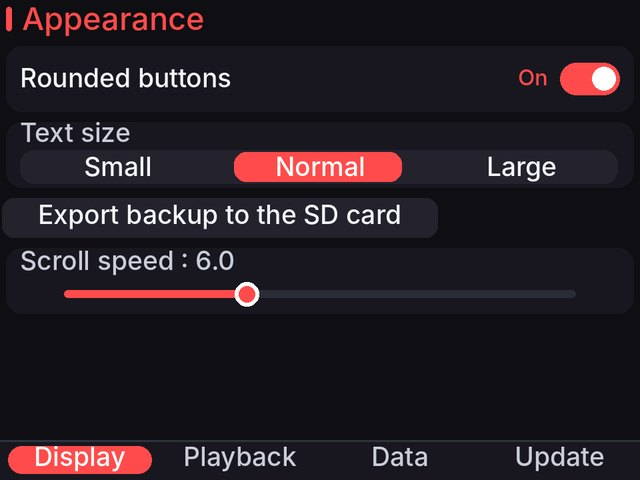
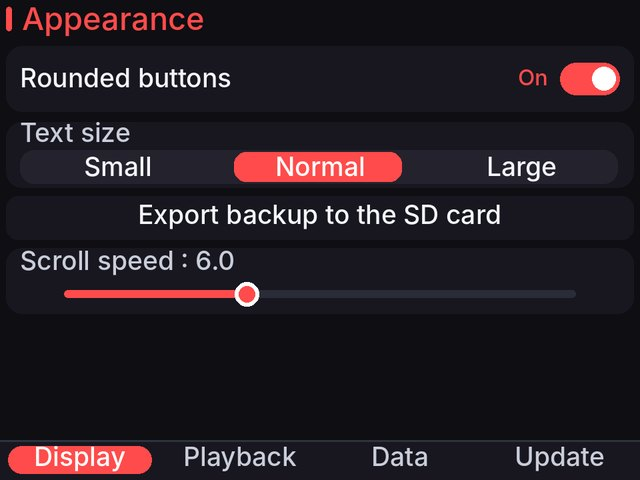
Web: refreshed screenshots and two new ones (quality selector, Spanish settings)

Changed region(s): [[0.0625, 0.4062, 0.7812, 0.4688]]

diff --git a/web/js/i18n.js b/web/js/i18n.js
@@ -14,7 +14,7 @@
       data_note: "Your data lives in <code>sdmc:/3ds/IkersTube/</code>.",
       qr_caption: "Always points to the latest stable .cia",
       nav_ui: "Look", ui_title: "The new look", ui_intro: "A new design for the whole app: rounded cards, switches, a new bottom bar and light and dark themes. These are renders of the real interface code with sample data, not photos of a console.",
-      ui_a1: "Home screen, dark theme", ui_a2: "Home screen, light theme", ui_a3: "Settings", ui_a4: "Video page", ui_a5: "Video menu", ui_a6: "Settings, light theme",
+      ui_a1: "Home screen, dark theme", ui_a2: "Home screen, light theme", ui_a3: "Settings", ui_a4: "Video page", ui_a5: "Video menu", ui_a6: "Settings, light theme", ui_a7: "Playback tab with the quality selector", ui_a8: "Settings in Spanish", ui_c7: "Quality selector", ui_c8: "Settings in Spanish",
       ui_c1: "Home, dark", ui_c2: "Home, light", ui_c3: "Settings", ui_c4: "Video page", ui_c5: "Long press menu", ui_c6: "Settings, light",
       feat_title: "Features",
       f1_t: "Search and watch", f1_x: "Filters, suggestions, Shorts, live streams and chat, subtitles, SponsorBlock.",
@@ -94,7 +94,7 @@
       data_note: "Tus datos están en <code>sdmc:/3ds/IkersTube/</code>.",
       qr_caption: "Siempre apunta al último .cia estable",
       nav_ui: "Aspecto", ui_title: "El nuevo aspecto", ui_intro: "Un diseño nuevo para toda la app: tarjetas redondeadas, interruptores, una barra inferior nueva y temas claro y oscuro. Son imágenes generadas con el código real de la interfaz y datos de ejemplo, no fotos de una consola.",
-      ui_a1: "Pantalla de inicio, tema oscuro", ui_a2: "Pantalla de inicio, tema claro", ui_a3: "Ajustes", ui_a4: "Página de un vídeo", ui_a5: "Menú de un vídeo", ui_a6: "Ajustes, tema claro",
+      ui_a1: "Pantalla de inicio, tema oscuro", ui_a2: "Pantalla de inicio, tema claro", ui_a3: "Ajustes", ui_a4: "Página de un vídeo", ui_a5: "Menú de un vídeo", ui_a6: "Ajustes, tema claro", ui_a7: "Pestaña Reproducción con el selector de calidad", ui_a8: "Ajustes en español", ui_c7: "Selector de calidad", ui_c8: "Ajustes en español",
       ui_c1: "Inicio, oscuro", ui_c2: "Inicio, claro", ui_c3: "Ajustes", ui_c4: "Página de vídeo", ui_c5: "Menú de pulsación larga", ui_c6: "Ajustes, claro",
       feat_title: "Funciones",
       f1_t: "Buscar y ver", f1_x: "Filtros, sugerencias, Shorts, directos y chat, subtítulos, SponsorBlock.",

diff --git a/web/index.html b/web/index.html
@@ -143,6 +143,8 @@
         <figure><img src="img/ui-player-dark.jpg" width="640" height="480" loading="lazy" alt="Video page" data-i18n-alt="ui_a4"><figcaption data-i18n="ui_c4">Video page</figcaption></figure>
         <figure><img src="img/ui-menu-dark.jpg" width="640" height="480" loading="lazy" alt="Video menu" data-i18n-alt="ui_a5"><figcaption data-i18n="ui_c5">Long press menu</figcaption></figure>
         <figure><img src="img/ui-settings-light.jpg" width="640" height="480" loading="lazy" alt="Settings, light theme" data-i18n-alt="ui_a6"><figcaption data-i18n="ui_c6">Settings, light</figcaption></figure>
+        <figure><img src="img/ui-playback-dark.jpg" width="640" height="480" loading="lazy" alt="Playback tab with the quality selector" data-i18n-alt="ui_a7"><figcaption data-i18n="ui_c7">Quality selector</figcaption></figure>
+        <figure><img src="img/ui-settings-es.jpg" width="640" height="480" loading="lazy" alt="Settings in Spanish" data-i18n-alt="ui_a8"><figcaption data-i18n="ui_c8">Settings in Spanish</figcaption></figure>
       </div>
     </section>
 
